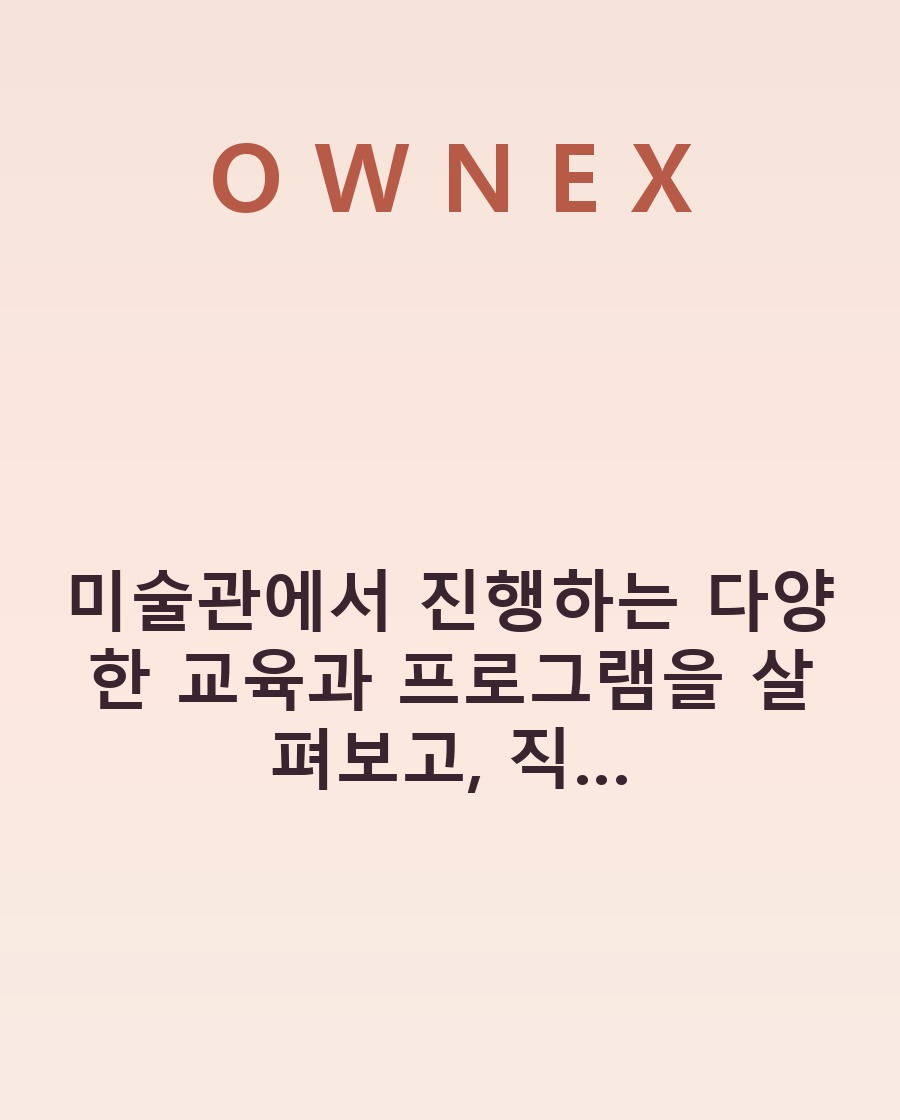
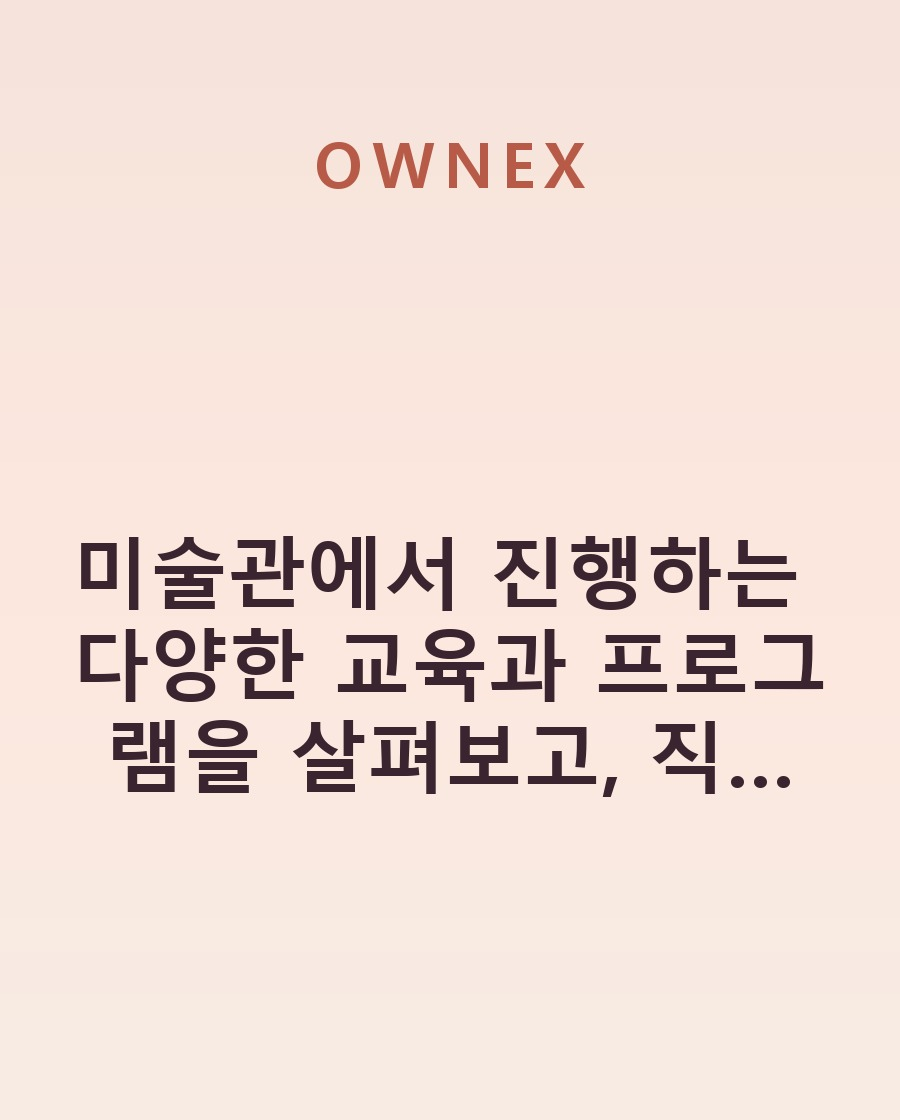
Make OWNEX about 80 percent of the smaller show title.

Changed region(s): [[0.0622, 0.4688, 0.9333, 0.7188], [0.3422, 0.125, 0.7778, 0.1875], [0.2178, 0.125, 0.3111, 0.1875]]

diff --git a/index.html b/index.html
@@ -35,7 +35,7 @@
   <link rel="preconnect" href="https://fonts.googleapis.com" />
   <link rel="preconnect" href="https://fonts.gstatic.com" crossorigin />
   <link href="https://fonts.googleapis.com/css2?family=Cormorant+Garamond:ital,wght@0,500;0,600;1,400&family=Great+Vibes&family=Noto+Sans+KR:wght@400;500;600&family=Noto+Serif+KR:wght@500;600;700&display=swap" rel="stylesheet" />
-  <link rel="stylesheet" href="styles.css?v=fix73" />
+  <link rel="stylesheet" href="styles.css?v=fix74" />
   <style>
     body { margin: 0; min-height: 100vh; background: var(--bg, #351e28); color: var(--ink, #f6efe6); font-family: "Noto Sans KR", "Apple SD Gothic Neo", "Malgun Gothic", sans-serif; }
     #front-row:not([hidden]) {
@@ -1124,7 +1124,7 @@
       }
     })();
   </script>
-  <script src="data.js?v=fix73"></script>
-  <script src="app.js?v=fix73"></script>
+  <script src="data.js?v=fix74"></script>
+  <script src="app.js?v=fix74"></script>
 </body>
 </html>

diff --git a/styles.css b/styles.css
@@ -882,7 +882,7 @@ body.open .gcal-icon {
 .name-art.designed i,
 .poster.designed i {
   font-style: normal;
-  font-size: 2.3rem;
+  font-size: 1.32rem;
   letter-spacing: 0.26em;
   color: var(--paper-hover);
 }
@@ -890,7 +890,7 @@ body.open .gcal-icon {
 .name-art.designed b,
 .poster.designed b {
   font-family: "Noto Serif KR", "Cormorant Garamond", serif;
-  font-size: clamp(1.15rem, 3.9vw, 1.57rem);
+  font-size: clamp(1.15rem, 3.7vw, 1.65rem);
   font-weight: 600;
   line-height: 1.3;
   letter-spacing: -0.03em;
@@ -901,8 +901,12 @@ body.open .gcal-icon {
   border-radius: 1.25rem;
 }
 
+.poster.designed i {
+  font-size: 1.92rem;
+}
+
 .poster.designed b {
-  font-size: clamp(1.57rem, 3.9vw, 2.3rem);
+  font-size: clamp(1.55rem, 3.8vw, 2.4rem);
 }
 
 .name-art.designed-img,

diff --git a/app.js b/app.js
@@ -1984,7 +1984,7 @@
     });
   }
 
-  const ASSET_VER = "20260915c";
+  const ASSET_VER = "20260915d";
 
   function assetUrl(src) {
     const value = String(src || "");

diff --git a/daily/util/web_posters.py b/daily/util/web_posters.py
@@ -111,33 +111,37 @@ def _designed_canvas(title: str) -> Image.Image:
         t = y / max(height - 1, 1)
         color = _blend(top, mid, t / 0.55) if t < 0.55 else _blend(mid, bottom, (t - 0.55) / 0.45)
         draw.line((0, y, width, y), fill=color)
-    brand = _font(95, bold=True)
-    label = "OWNEX"
-    gap = 31
-    brand_w = sum(draw.textlength(ch, font=brand) for ch in label) + gap * (len(label) - 1)
-    x = (width - brand_w) / 2
-    for ch in label:
-        draw.text((x, 108), ch, font=brand, fill=mark)
-        x += draw.textlength(ch, font=brand) + gap
     clean = _designed_title(title)
-    max_w, max_h = width - 120, 520
-    title_font = _font(39, bold=True)
+    max_w, max_h = width - 140, 460
+    title_size = 48
+    title_font = _font(title_size, bold=True)
     lines = _wrap(draw, clean, title_font, max_w, 6)
-    line_h = 48
-    for size in range(66, 32, -3):
+    line_h = 58
+    for size in range(82, 39, -2):
         trial_font = _font(size, bold=True)
         trial_lines = _wrap(draw, clean, trial_font, max_w, 20)
-        trial_h = int(size * 1.2)
+        trial_h = int(size * 1.18)
         widest = max((draw.textlength(line, font=trial_font) for line in trial_lines), default=0)
-        if len(trial_lines) > 5:
+        if len(trial_lines) > 3:
             continue
         if widest <= max_w and len(trial_lines) * trial_h <= max_h:
+            title_size = size
             title_font = trial_font
             lines = trial_lines
             line_h = trial_h
             break
+    brand_size = max(40, int(round(title_size * 0.8)))
+    brand = _font(brand_size, bold=True)
+    label = "OWNEX"
+    gap = max(8, int(brand_size * 0.16))
+    brand_w = sum(draw.textlength(ch, font=brand) for ch in label) + gap * (len(label) - 1)
+    x = (width - brand_w) / 2
+    brand_y = 120
+    for ch in label:
+        draw.text((x, brand_y), ch, font=brand, fill=mark)
+        x += draw.textlength(ch, font=brand) + gap
     block_h = len(lines) * line_h
-    y = 268 + ((height - 310) - block_h) / 2
+    y = brand_y + brand_size + 90 + max(0, (height - (brand_y + brand_size + 90) - 80 - block_h) / 2)
     for line in lines:
         draw.text(((width - draw.textlength(line, font=title_font)) / 2, y), line, font=title_font, fill=ink)
         y += line_h
